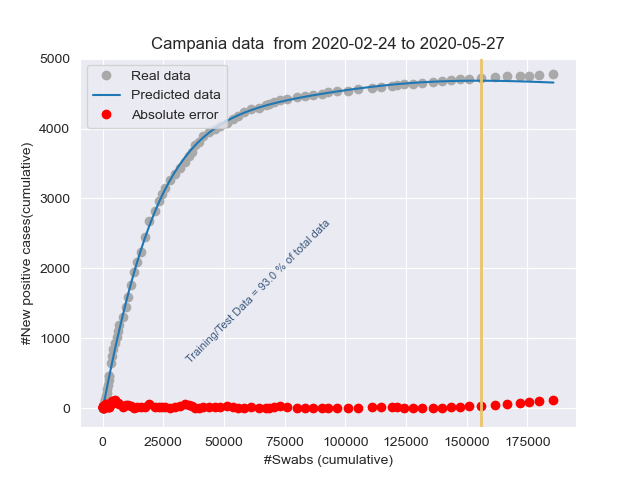
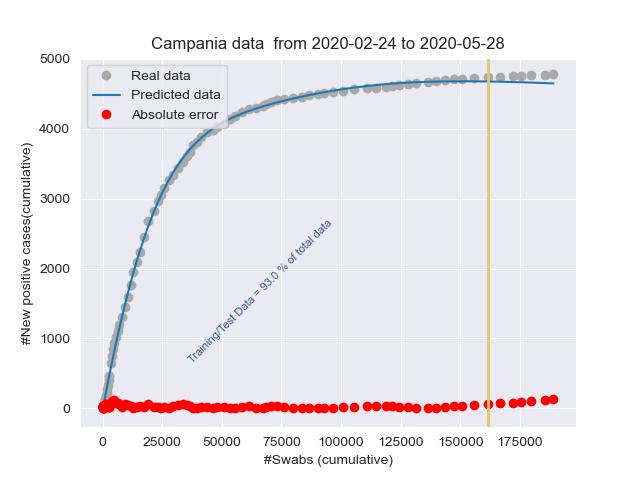
Add files via upload

diff --git a/stat_Italy.html b/stat_Italy.html
@@ -1,1 +1,1 @@
-<!DOCTYPE html><html lang="it"><head><title>Results</title><meta charset="utf-8"><meta name="viewport" content="width=device-width, initial-scale=1"><link rel="stylesheet" href="bootstrap.min.css"><script src="https://ajax.googleapis.com/ajax/libs/jquery/3.4.1/jquery.min.js"></script><script src="https://maxcdn.bootstrapcdn.com/bootstrap/3.4.1/js/bootstrap.min.js"></script></head><body><h3>Day: 2020-05-27</h3><p class="lead my-3">New positive cases: <b>584</b></p><p class="lead my-3">Number of swabs: <b>67324.0</b></p><p class="lead my-3">Postive cases/Swabs: <b>0.87 %</b></p><p class="lead my-3">Number of people admitted to Intensive care: <b>505</b></p><p class="lead my-3">Number of recovered people: <b>2443.0</b></p><p class="lead my-3">Number of dead people: <b>117.0</b></p></body></html>
+<!DOCTYPE html><html lang="it"><head><title>Results</title><meta charset="utf-8"><meta name="viewport" content="width=device-width, initial-scale=1"><link rel="stylesheet" href="bootstrap.min.css"><script src="https://ajax.googleapis.com/ajax/libs/jquery/3.4.1/jquery.min.js"></script><script src="https://maxcdn.bootstrapcdn.com/bootstrap/3.4.1/js/bootstrap.min.js"></script></head><body><h3>Day: 2020-05-28</h3><p class="lead my-3">New positive cases: <b>593</b></p><p class="lead my-3">Number of swabs: <b>75893.0</b></p><p class="lead my-3">Postive cases/Swabs: <b>0.78 %</b></p><p class="lead my-3">Number of people admitted to Intensive care: <b>489</b></p><p class="lead my-3">Number of recovered people: <b>3503.0</b></p><p class="lead my-3">Number of dead people: <b>70.0</b></p></body></html>

diff --git a/stat_Lombardia.html b/stat_Lombardia.html
@@ -1,1 +1,1 @@
-<!DOCTYPE html><html lang="it"><head><title>Results</title><meta charset="utf-8"><meta name="viewport" content="width=device-width, initial-scale=1"><link rel="stylesheet" href="bootstrap.min.css"><script src="https://ajax.googleapis.com/ajax/libs/jquery/3.4.1/jquery.min.js"></script><script src="https://maxcdn.bootstrapcdn.com/bootstrap/3.4.1/js/bootstrap.min.js"></script></head><body><h3>Day: 2020-05-27</h3><p class="lead my-3">New positive cases: <b>384</b></p><p class="lead my-3">Number of swabs: <b>12503.0</b></p><p class="lead my-3">Postive cases/Swabs: <b>3.07 %</b></p><p class="lead my-3">Number of people admitted to Intensive care: <b>175</b></p><p class="lead my-3">Number of recovered people: <b>766.0</b></p><p class="lead my-3">Number of dead people: <b>58.0</b></p></body></html>
+<!DOCTYPE html><html lang="it"><head><title>Results</title><meta charset="utf-8"><meta name="viewport" content="width=device-width, initial-scale=1"><link rel="stylesheet" href="bootstrap.min.css"><script src="https://ajax.googleapis.com/ajax/libs/jquery/3.4.1/jquery.min.js"></script><script src="https://maxcdn.bootstrapcdn.com/bootstrap/3.4.1/js/bootstrap.min.js"></script></head><body><h3>Day: 2020-05-28</h3><p class="lead my-3">New positive cases: <b>382</b></p><p class="lead my-3">Number of swabs: <b>15507.0</b></p><p class="lead my-3">Postive cases/Swabs: <b>2.46 %</b></p><p class="lead my-3">Number of people admitted to Intensive care: <b>173</b></p><p class="lead my-3">Number of recovered people: <b>1486.0</b></p><p class="lead my-3">Number of dead people: <b>20.0</b></p></body></html>

diff --git a/stat_Emilia-Romagna.html b/stat_Emilia-Romagna.html
@@ -1,1 +1,1 @@
-<!DOCTYPE html><html lang="it"><head><title>Results</title><meta charset="utf-8"><meta name="viewport" content="width=device-width, initial-scale=1"><link rel="stylesheet" href="bootstrap.min.css"><script src="https://ajax.googleapis.com/ajax/libs/jquery/3.4.1/jquery.min.js"></script><script src="https://maxcdn.bootstrapcdn.com/bootstrap/3.4.1/js/bootstrap.min.js"></script></head><body><h3>Day: 2020-05-27</h3><p class="lead my-3">New positive cases: <b>16</b></p><p class="lead my-3">Number of swabs: <b>3714.0</b></p><p class="lead my-3">Postive cases/Swabs: <b>0.43 %</b></p><p class="lead my-3">Number of people admitted to Intensive care: <b>78</b></p><p class="lead my-3">Number of recovered people: <b>157.0</b></p><p class="lead my-3">Number of dead people: <b>7.0</b></p></body></html>
+<!DOCTYPE html><html lang="it"><head><title>Results</title><meta charset="utf-8"><meta name="viewport" content="width=device-width, initial-scale=1"><link rel="stylesheet" href="bootstrap.min.css"><script src="https://ajax.googleapis.com/ajax/libs/jquery/3.4.1/jquery.min.js"></script><script src="https://maxcdn.bootstrapcdn.com/bootstrap/3.4.1/js/bootstrap.min.js"></script></head><body><h3>Day: 2020-05-28</h3><p class="lead my-3">New positive cases: <b>74</b></p><p class="lead my-3">Number of swabs: <b>9128.0</b></p><p class="lead my-3">Postive cases/Swabs: <b>0.81 %</b></p><p class="lead my-3">Number of people admitted to Intensive care: <b>77</b></p><p class="lead my-3">Number of recovered people: <b>311.0</b></p><p class="lead my-3">Number of dead people: <b>11.0</b></p></body></html>

diff --git a/stat_Piemonte.html b/stat_Piemonte.html
@@ -1,1 +1,1 @@
-<!DOCTYPE html><html lang="it"><head><title>Results</title><meta charset="utf-8"><meta name="viewport" content="width=device-width, initial-scale=1"><link rel="stylesheet" href="bootstrap.min.css"><script src="https://ajax.googleapis.com/ajax/libs/jquery/3.4.1/jquery.min.js"></script><script src="https://maxcdn.bootstrapcdn.com/bootstrap/3.4.1/js/bootstrap.min.js"></script></head><body><h3>Day: 2020-05-27</h3><p class="lead my-3">New positive cases: <b>73</b></p><p class="lead my-3">Number of swabs: <b>5098.0</b></p><p class="lead my-3">Postive cases/Swabs: <b>1.43 %</b></p><p class="lead my-3">Number of people admitted to Intensive care: <b>68</b></p><p class="lead my-3">Number of recovered people: <b>534.0</b></p><p class="lead my-3">Number of dead people: <b>16.0</b></p></body></html>
+<!DOCTYPE html><html lang="it"><head><title>Results</title><meta charset="utf-8"><meta name="viewport" content="width=device-width, initial-scale=1"><link rel="stylesheet" href="bootstrap.min.css"><script src="https://ajax.googleapis.com/ajax/libs/jquery/3.4.1/jquery.min.js"></script><script src="https://maxcdn.bootstrapcdn.com/bootstrap/3.4.1/js/bootstrap.min.js"></script></head><body><h3>Day: 2020-05-28</h3><p class="lead my-3">New positive cases: <b>58</b></p><p class="lead my-3">Number of swabs: <b>5787.0</b></p><p class="lead my-3">Postive cases/Swabs: <b>1.0 %</b></p><p class="lead my-3">Number of people admitted to Intensive care: <b>64</b></p><p class="lead my-3">Number of recovered people: <b>440.0</b></p><p class="lead my-3">Number of dead people: <b>10.0</b></p></body></html>

diff --git a/stat_Liguria.html b/stat_Liguria.html
@@ -1,1 +1,1 @@
-<!DOCTYPE html><html lang="it"><head><title>Results</title><meta charset="utf-8"><meta name="viewport" content="width=device-width, initial-scale=1"><link rel="stylesheet" href="bootstrap.min.css"><script src="https://ajax.googleapis.com/ajax/libs/jquery/3.4.1/jquery.min.js"></script><script src="https://maxcdn.bootstrapcdn.com/bootstrap/3.4.1/js/bootstrap.min.js"></script></head><body><h3>Day: 2020-05-27</h3><p class="lead my-3">New positive cases: <b>39</b></p><p class="lead my-3">Number of swabs: <b>2157.0</b></p><p class="lead my-3">Postive cases/Swabs: <b>1.81 %</b></p><p class="lead my-3">Number of people admitted to Intensive care: <b>14</b></p><p class="lead my-3">Number of recovered people: <b>201.0</b></p><p class="lead my-3">Number of dead people: <b>7.0</b></p></body></html>
+<!DOCTYPE html><html lang="it"><head><title>Results</title><meta charset="utf-8"><meta name="viewport" content="width=device-width, initial-scale=1"><link rel="stylesheet" href="bootstrap.min.css"><script src="https://ajax.googleapis.com/ajax/libs/jquery/3.4.1/jquery.min.js"></script><script src="https://maxcdn.bootstrapcdn.com/bootstrap/3.4.1/js/bootstrap.min.js"></script></head><body><h3>Day: 2020-05-28</h3><p class="lead my-3">New positive cases: <b>16</b></p><p class="lead my-3">Number of swabs: <b>1790.0</b></p><p class="lead my-3">Postive cases/Swabs: <b>0.89 %</b></p><p class="lead my-3">Number of people admitted to Intensive care: <b>13</b></p><p class="lead my-3">Number of recovered people: <b>133.0</b></p><p class="lead my-3">Number of dead people: <b>7.0</b></p></body></html>

diff --git a/stat_Veneto.html b/stat_Veneto.html
@@ -1,1 +1,1 @@
-<!DOCTYPE html><html lang="it"><head><title>Results</title><meta charset="utf-8"><meta name="viewport" content="width=device-width, initial-scale=1"><link rel="stylesheet" href="bootstrap.min.css"><script src="https://ajax.googleapis.com/ajax/libs/jquery/3.4.1/jquery.min.js"></script><script src="https://maxcdn.bootstrapcdn.com/bootstrap/3.4.1/js/bootstrap.min.js"></script></head><body><h3>Day: 2020-05-27</h3><p class="lead my-3">New positive cases: <b>8</b></p><p class="lead my-3">Number of swabs: <b>14439.0</b></p><p class="lead my-3">Postive cases/Swabs: <b>0.06 %</b></p><p class="lead my-3">Number of people admitted to Intensive care: <b>9</b></p><p class="lead my-3">Number of recovered people: <b>143.0</b></p><p class="lead my-3">Number of dead people: <b>9.0</b></p></body></html>
+<!DOCTYPE html><html lang="it"><head><title>Results</title><meta charset="utf-8"><meta name="viewport" content="width=device-width, initial-scale=1"><link rel="stylesheet" href="bootstrap.min.css"><script src="https://ajax.googleapis.com/ajax/libs/jquery/3.4.1/jquery.min.js"></script><script src="https://maxcdn.bootstrapcdn.com/bootstrap/3.4.1/js/bootstrap.min.js"></script></head><body><h3>Day: 2020-05-28</h3><p class="lead my-3">New positive cases: <b>12</b></p><p class="lead my-3">Number of swabs: <b>15433.0</b></p><p class="lead my-3">Postive cases/Swabs: <b>0.08 %</b></p><p class="lead my-3">Number of people admitted to Intensive care: <b>9</b></p><p class="lead my-3">Number of recovered people: <b>271.0</b></p><p class="lead my-3">Number of dead people: <b>3.0</b></p></body></html>

diff --git a/stat_Lazio.html b/stat_Lazio.html
@@ -1,1 +1,1 @@
-<!DOCTYPE html><html lang="it"><head><title>Results</title><meta charset="utf-8"><meta name="viewport" content="width=device-width, initial-scale=1"><link rel="stylesheet" href="bootstrap.min.css"><script src="https://ajax.googleapis.com/ajax/libs/jquery/3.4.1/jquery.min.js"></script><script src="https://maxcdn.bootstrapcdn.com/bootstrap/3.4.1/js/bootstrap.min.js"></script></head><body><h3>Day: 2020-05-27</h3><p class="lead my-3">New positive cases: <b>11</b></p><p class="lead my-3">Number of swabs: <b>3320.0</b></p><p class="lead my-3">Postive cases/Swabs: <b>0.33 %</b></p><p class="lead my-3">Number of people admitted to Intensive care: <b>65</b></p><p class="lead my-3">Number of recovered people: <b>53.0</b></p><p class="lead my-3">Number of dead people: <b>8.0</b></p></body></html>
+<!DOCTYPE html><html lang="it"><head><title>Results</title><meta charset="utf-8"><meta name="viewport" content="width=device-width, initial-scale=1"><link rel="stylesheet" href="bootstrap.min.css"><script src="https://ajax.googleapis.com/ajax/libs/jquery/3.4.1/jquery.min.js"></script><script src="https://maxcdn.bootstrapcdn.com/bootstrap/3.4.1/js/bootstrap.min.js"></script></head><body><h3>Day: 2020-05-28</h3><p class="lead my-3">New positive cases: <b>21</b></p><p class="lead my-3">Number of swabs: <b>3706.0</b></p><p class="lead my-3">Postive cases/Swabs: <b>0.57 %</b></p><p class="lead my-3">Number of people admitted to Intensive care: <b>64</b></p><p class="lead my-3">Number of recovered people: <b>97.0</b></p><p class="lead my-3">Number of dead people: <b>7.0</b></p></body></html>

diff --git a/stat_Puglia.html b/stat_Puglia.html
@@ -1,1 +1,1 @@
-<!DOCTYPE html><html lang="it"><head><title>Results</title><meta charset="utf-8"><meta name="viewport" content="width=device-width, initial-scale=1"><link rel="stylesheet" href="bootstrap.min.css"><script src="https://ajax.googleapis.com/ajax/libs/jquery/3.4.1/jquery.min.js"></script><script src="https://maxcdn.bootstrapcdn.com/bootstrap/3.4.1/js/bootstrap.min.js"></script></head><body><h3>Day: 2020-05-27</h3><p class="lead my-3">New positive cases: <b>10</b></p><p class="lead my-3">Number of swabs: <b>2626.0</b></p><p class="lead my-3">Postive cases/Swabs: <b>0.38 %</b></p><p class="lead my-3">Number of people admitted to Intensive care: <b>17</b></p><p class="lead my-3">Number of recovered people: <b>35.0</b></p><p class="lead my-3">Number of dead people: <b>1.0</b></p></body></html>
+<!DOCTYPE html><html lang="it"><head><title>Results</title><meta charset="utf-8"><meta name="viewport" content="width=device-width, initial-scale=1"><link rel="stylesheet" href="bootstrap.min.css"><script src="https://ajax.googleapis.com/ajax/libs/jquery/3.4.1/jquery.min.js"></script><script src="https://maxcdn.bootstrapcdn.com/bootstrap/3.4.1/js/bootstrap.min.js"></script></head><body><h3>Day: 2020-05-28</h3><p class="lead my-3">New positive cases: <b>2</b></p><p class="lead my-3">Number of swabs: <b>2447.0</b></p><p class="lead my-3">Postive cases/Swabs: <b>0.08 %</b></p><p class="lead my-3">Number of people admitted to Intensive care: <b>16</b></p><p class="lead my-3">Number of recovered people: <b>119.0</b></p><p class="lead my-3">Number of dead people: <b>1.0</b></p></body></html>

diff --git a/stat_Marche.html b/stat_Marche.html
@@ -1,1 +1,1 @@
-<!DOCTYPE html><html lang="it"><head><title>Results</title><meta charset="utf-8"><meta name="viewport" content="width=device-width, initial-scale=1"><link rel="stylesheet" href="bootstrap.min.css"><script src="https://ajax.googleapis.com/ajax/libs/jquery/3.4.1/jquery.min.js"></script><script src="https://maxcdn.bootstrapcdn.com/bootstrap/3.4.1/js/bootstrap.min.js"></script></head><body><h3>Day: 2020-05-27</h3><p class="lead my-3">New positive cases: <b>0</b></p><p class="lead my-3">Number of swabs: <b>1250.0</b></p><p class="lead my-3">Postive cases/Swabs: <b>0.0 %</b></p><p class="lead my-3">Number of people admitted to Intensive care: <b>13</b></p><p class="lead my-3">Number of recovered people: <b>125.0</b></p><p class="lead my-3">Number of dead people: <b>0.0</b></p></body></html>
+<!DOCTYPE html><html lang="it"><head><title>Results</title><meta charset="utf-8"><meta name="viewport" content="width=device-width, initial-scale=1"><link rel="stylesheet" href="bootstrap.min.css"><script src="https://ajax.googleapis.com/ajax/libs/jquery/3.4.1/jquery.min.js"></script><script src="https://maxcdn.bootstrapcdn.com/bootstrap/3.4.1/js/bootstrap.min.js"></script></head><body><h3>Day: 2020-05-28</h3><p class="lead my-3">New positive cases: <b>1</b></p><p class="lead my-3">Number of swabs: <b>1575.0</b></p><p class="lead my-3">Postive cases/Swabs: <b>0.06 %</b></p><p class="lead my-3">Number of people admitted to Intensive care: <b>13</b></p><p class="lead my-3">Number of recovered people: <b>104.0</b></p><p class="lead my-3">Number of dead people: <b>1.0</b></p></body></html>

diff --git a/stat_Sicilia.html b/stat_Sicilia.html
@@ -1,1 +1,1 @@
-<!DOCTYPE html><html lang="it"><head><title>Results</title><meta charset="utf-8"><meta name="viewport" content="width=device-width, initial-scale=1"><link rel="stylesheet" href="bootstrap.min.css"><script src="https://ajax.googleapis.com/ajax/libs/jquery/3.4.1/jquery.min.js"></script><script src="https://maxcdn.bootstrapcdn.com/bootstrap/3.4.1/js/bootstrap.min.js"></script></head><body><h3>Day: 2020-05-27</h3><p class="lead my-3">New positive cases: <b>5</b></p><p class="lead my-3">Number of swabs: <b>2613.0</b></p><p class="lead my-3">Postive cases/Swabs: <b>0.19 %</b></p><p class="lead my-3">Number of people admitted to Intensive care: <b>10</b></p><p class="lead my-3">Number of recovered people: <b>116.0</b></p><p class="lead my-3">Number of dead people: <b>1.0</b></p></body></html>
+<!DOCTYPE html><html lang="it"><head><title>Results</title><meta charset="utf-8"><meta name="viewport" content="width=device-width, initial-scale=1"><link rel="stylesheet" href="bootstrap.min.css"><script src="https://ajax.googleapis.com/ajax/libs/jquery/3.4.1/jquery.min.js"></script><script src="https://maxcdn.bootstrapcdn.com/bootstrap/3.4.1/js/bootstrap.min.js"></script></head><body><h3>Day: 2020-05-28</h3><p class="lead my-3">New positive cases: <b>3</b></p><p class="lead my-3">Number of swabs: <b>2221.0</b></p><p class="lead my-3">Postive cases/Swabs: <b>0.14 %</b></p><p class="lead my-3">Number of people admitted to Intensive care: <b>8</b></p><p class="lead my-3">Number of recovered people: <b>176.0</b></p><p class="lead my-3">Number of dead people: <b>0.0</b></p></body></html>

diff --git a/stat_Toscana.html b/stat_Toscana.html
@@ -1,1 +1,1 @@
-<!DOCTYPE html><html lang="it"><head><title>Results</title><meta charset="utf-8"><meta name="viewport" content="width=device-width, initial-scale=1"><link rel="stylesheet" href="bootstrap.min.css"><script src="https://ajax.googleapis.com/ajax/libs/jquery/3.4.1/jquery.min.js"></script><script src="https://maxcdn.bootstrapcdn.com/bootstrap/3.4.1/js/bootstrap.min.js"></script></head><body><h3>Day: 2020-05-27</h3><p class="lead my-3">New positive cases: <b>12</b></p><p class="lead my-3">Number of swabs: <b>3871.0</b></p><p class="lead my-3">Postive cases/Swabs: <b>0.31 %</b></p><p class="lead my-3">Number of people admitted to Intensive care: <b>31</b></p><p class="lead my-3">Number of recovered people: <b>68.0</b></p><p class="lead my-3">Number of dead people: <b>6.0</b></p></body></html>
+<!DOCTYPE html><html lang="it"><head><title>Results</title><meta charset="utf-8"><meta name="viewport" content="width=device-width, initial-scale=1"><link rel="stylesheet" href="bootstrap.min.css"><script src="https://ajax.googleapis.com/ajax/libs/jquery/3.4.1/jquery.min.js"></script><script src="https://maxcdn.bootstrapcdn.com/bootstrap/3.4.1/js/bootstrap.min.js"></script></head><body><h3>Day: 2020-05-28</h3><p class="lead my-3">New positive cases: <b>4</b></p><p class="lead my-3">Number of swabs: <b>4020.0</b></p><p class="lead my-3">Postive cases/Swabs: <b>0.1 %</b></p><p class="lead my-3">Number of people admitted to Intensive care: <b>27</b></p><p class="lead my-3">Number of recovered people: <b>82.0</b></p><p class="lead my-3">Number of dead people: <b>2.0</b></p></body></html>

diff --git a/stat_Abruzzo.html b/stat_Abruzzo.html
@@ -1,1 +1,1 @@
-<!DOCTYPE html><html lang="it"><head><title>Results</title><meta charset="utf-8"><meta name="viewport" content="width=device-width, initial-scale=1"><link rel="stylesheet" href="bootstrap.min.css"><script src="https://ajax.googleapis.com/ajax/libs/jquery/3.4.1/jquery.min.js"></script><script src="https://maxcdn.bootstrapcdn.com/bootstrap/3.4.1/js/bootstrap.min.js"></script></head><body><h3>Day: 2020-05-27</h3><p class="lead my-3">New positive cases: <b>5</b></p><p class="lead my-3">Number of swabs: <b>1740.0</b></p><p class="lead my-3">Postive cases/Swabs: <b>0.29 %</b></p><p class="lead my-3">Number of people admitted to Intensive care: <b>3</b></p><p class="lead my-3">Number of recovered people: <b>48.0</b></p><p class="lead my-3">Number of dead people: <b>0.0</b></p></body></html>
+<!DOCTYPE html><html lang="it"><head><title>Results</title><meta charset="utf-8"><meta name="viewport" content="width=device-width, initial-scale=1"><link rel="stylesheet" href="bootstrap.min.css"><script src="https://ajax.googleapis.com/ajax/libs/jquery/3.4.1/jquery.min.js"></script><script src="https://maxcdn.bootstrapcdn.com/bootstrap/3.4.1/js/bootstrap.min.js"></script></head><body><h3>Day: 2020-05-28</h3><p class="lead my-3">New positive cases: <b>2</b></p><p class="lead my-3">Number of swabs: <b>1315.0</b></p><p class="lead my-3">Postive cases/Swabs: <b>0.15 %</b></p><p class="lead my-3">Number of people admitted to Intensive care: <b>3</b></p><p class="lead my-3">Number of recovered people: <b>42.0</b></p><p class="lead my-3">Number of dead people: <b>2.0</b></p></body></html>
